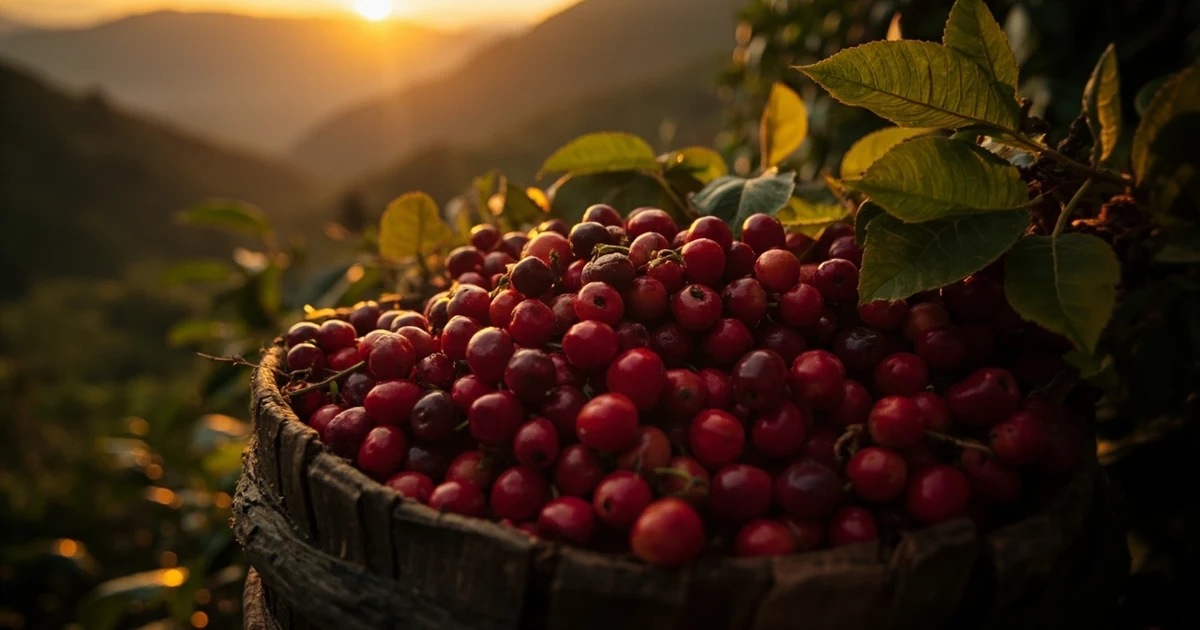
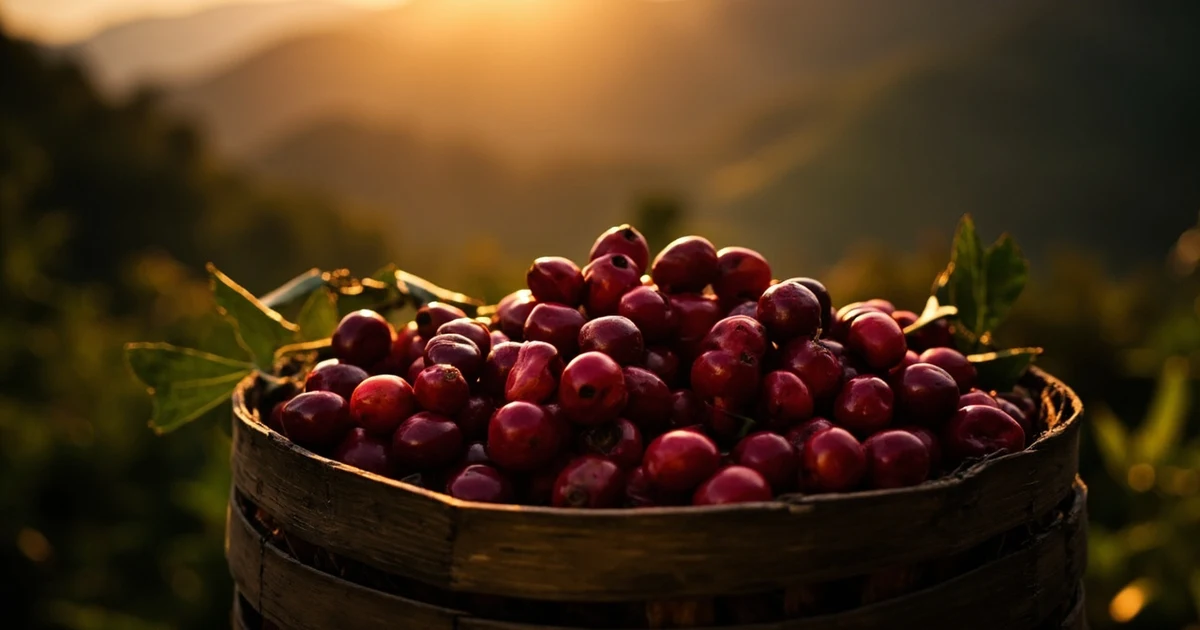
feat: 更新文章《咖啡豆厭氧發酵處理法完整解析：原理、風味與沖煮建議一次搞懂》
slug: coffee-anaerobic-fermentation-processing-guide
categories: knowledge
source: admin

diff --git a/article/coffee-anaerobic-fermentation-processing-guide/index.html b/article/coffee-anaerobic-fermentation-processing-guide/index.html
@@ -28,7 +28,7 @@
   <meta name="twitter:title" content="咖啡豆厭氧發酵處理法完整解析：原理、風味與沖煮建議一次搞懂">
   <meta name="twitter:description" content="想了解近年精品咖啡圈最熱門的厭氧發酵處理法嗎？本文從微生物原理出發,完整解析厭氧日曬、厭氧水洗、碳酸浸漬差異,風味特徵、知名莊園案例到沖煮建議一次搞懂,新手必看。">
   <meta name="twitter:image" content="https://dailycoffee.matrix.com.tw/article/coffee-anaerobic-fermentation-processing-guide/hero.webp">
-  <script type="application/ld+json">{"@context":"https://schema.org","@type":"Article","headline":"咖啡豆厭氧發酵處理法完整解析：原理、風味與沖煮建議一次搞懂","description":"想了解近年精品咖啡圈最熱門的厭氧發酵處理法嗎？本文從微生物原理出發,完整解析厭氧日曬、厭氧水洗、碳酸浸漬差異,風味特徵、知名莊園案例到沖煮建議一次搞懂,新手必看。","image":"https://dailycoffee.matrix.com.tw/article/coffee-anaerobic-fermentation-processing-guide/hero.webp","datePublished":"2026-06-21","dateModified":"2026-06-21","inLanguage":"zh-TW","wordCount":4952,"author":{"@type":"Organization","name":"Daily Coffee 編輯部","url":"https://dailycoffee.matrix.com.tw"},"publisher":{"@type":"Organization","name":"Daily Coffee","url":"https://www.matrix.com.tw","logo":{"@type":"ImageObject","url":"https://www.matrix.com.tw/logo.png"}},"mainEntityOfPage":{"@type":"WebPage","@id":"https://dailycoffee.matrix.com.tw/article/coffee-anaerobic-fermentation-processing-guide/"},"articleSection":"咖啡知識","keywords":"厭氧發酵,處理法,精品咖啡,後製處理,厭氧日曬,咖啡知識"}</script>
+  <script type="application/ld+json">{"@context":"https://schema.org","@type":"Article","headline":"咖啡豆厭氧發酵處理法完整解析：原理、風味與沖煮建議一次搞懂","description":"想了解近年精品咖啡圈最熱門的厭氧發酵處理法嗎？本文從微生物原理出發,完整解析厭氧日曬、厭氧水洗、碳酸浸漬差異,風味特徵、知名莊園案例到沖煮建議一次搞懂,新手必看。","image":"https://dailycoffee.matrix.com.tw/article/coffee-anaerobic-fermentation-processing-guide/hero.webp","datePublished":"2026-06-21","dateModified":"2026-06-20","inLanguage":"zh-TW","wordCount":4990,"author":{"@type":"Organization","name":"Daily Coffee 編輯部","url":"https://dailycoffee.matrix.com.tw"},"publisher":{"@type":"Organization","name":"Daily Coffee","url":"https://www.matrix.com.tw","logo":{"@type":"ImageObject","url":"https://www.matrix.com.tw/logo.png"}},"mainEntityOfPage":{"@type":"WebPage","@id":"https://dailycoffee.matrix.com.tw/article/coffee-anaerobic-fermentation-processing-guide/"},"articleSection":"咖啡知識","keywords":"厭氧發酵,處理法,精品咖啡,後製處理,厭氧日曬,咖啡知識"}</script>
   <script type="application/ld+json">{"@context":"https://schema.org","@type":"BreadcrumbList","itemListElement":[{"@type":"ListItem","position":1,"name":"首頁","item":"https://dailycoffee.matrix.com.tw/"},{"@type":"ListItem","position":2,"name":"文章","item":"https://dailycoffee.matrix.com.tw/"},{"@type":"ListItem","position":3,"name":"咖啡豆厭氧發酵處理法完整解析：原理、風味與沖煮建議一次搞懂","item":"https://dailycoffee.matrix.com.tw/article/coffee-anaerobic-fermentation-processing-guide/"}]}</script>
   <script type="application/ld+json">{"@context":"https://schema.org","@type":"FAQPage","mainEntity":[{"@type":"Question","name":"Q1：厭氧發酵處理豆一定比較好喝嗎？","acceptedAnswer":{"@type":"Answer","text":"不一定。厭氧豆的風味強烈、獨特，但不一定適合所有人的味蕾。有人喜歡它的水果爆發感，但也有人偏好傳統水洗的乾淨與平衡。建議先從小包裝（如 100 克）開始嘗試，確認自己喜歡再大量購買。"}},{"@type":"Question","name":"Q2：厭氧豆的咖啡因含量比一般豆子高嗎？","acceptedAnswer":{"@type":"Answer","text":"不會。咖啡因含量主要由品種決定（羅布斯塔較高、阿拉比卡較低），與處理法關係不大。厭氧發酵改變的是風味物質（酯類、酸類、醇類）的組成，不會顯著影響咖啡因含量。"}},{"@type":"Question","name":"Q3：厭氧豆可以放很久嗎？保存方式有什麼不同？","acceptedAnswer":{"@type":"Answer","text":"厭氧豆的保存方式與一般精品豆相同：密封、避光、避免高溫潮濕。烘焙後 1 至 2 週是最佳賞味期，3 週後風味會快速衰退。與一般豆子不同的是，厭氧豆的「風味消退」會更明顯，因為它的特色風味本來就靠大量芳香化合物承載。"}},{"@type":"Question","name":"Q4：厭氧處理和厭氧日曬有什麼差別？","acceptedAnswer":{"@type":"Answer","text":"厭氧處理是統稱，所有在無氧環境下進行的發酵都屬於厭氧處理。厭氧日曬則是其中一種方法——在無氧環境下發酵後再進行日曬乾燥。其他變體包括厭氧水洗（發酵後水洗）、碳酸浸漬（充二氧化碳環境下發酵）等。"}},{"@type":"Question","name":"Q5：在家可以自己做厭氧發酵處理嗎？","acceptedAnswer":{"@type":"Answer","text":"技術上可以，但品質控制極為困難。家用環境難以維持穩定的無氧狀態、溫度、菌種純度，容易產生過度發酵或腐敗。莊園會使用不鏽鋼密閉桶、溫度感測器、外源菌種培養液等專業設備，新手嘗試風險較高。建議直接購買莊園處理好的豆子即可。"}}]}</script>
   <link rel="stylesheet" href="/article-components.css">
@@ -107,6 +107,10 @@
 <p>厭氧環境則抑制了好氧菌的活動，讓厭氧與兼性微生物（如酵母菌、乳酸菌）成為主角。這些微生物在無氧條件下會透過不同的代謝路徑分解糖分，產生酯類、醇類、酚類等芳香化合物。例如酵母菌在厭氧發酵時會產生大量酯類（酯類正是水果香氣的主要來源），乳酸菌則產生乳酸，讓咖啡帶有優雅的酸甜感。</p>
 
 <p>厭氧處理最早可追溯至 2010 年代初期，由巴拿馬翡翠莊園（Hacienda La Esmeralda）與索菲亞莊園（Finca Sophia）開始嘗試，後來由哥倫比亞農夫 Saša Šestić（2008 WBC 世界冠軍）正式推廣，他所創辦的「Project Origin」品牌讓厭氧處理紅遍全球。比賽與拍賣會上的高價紀錄，也讓更多莊園投入實驗，發展出厭氧日曬、厭氧水洗、碳酸浸漬等不同變體。</p>
+
+<figure><img  src="/article/coffee-anaerobic-fermentation-processing-guide/img-tgy0eq-1.jpg" alt="厭氧發酵處理槽與咖啡果實" style="width:100%;height:auto;display:block;margin:1em 0;" />
+<figcaption style="text-align:center;color:#666;font-size:0.9em;">莊園使用密閉式發酵槽進行厭氧處理，透過控制無氧環境與微生物活動重塑咖啡風味。</figcaption>
+</figure>
 
 <h2 id="a2">四大厭氧處理法比較：日曬、水洗、碳酸浸漬、雙重發酵</h2>
 
